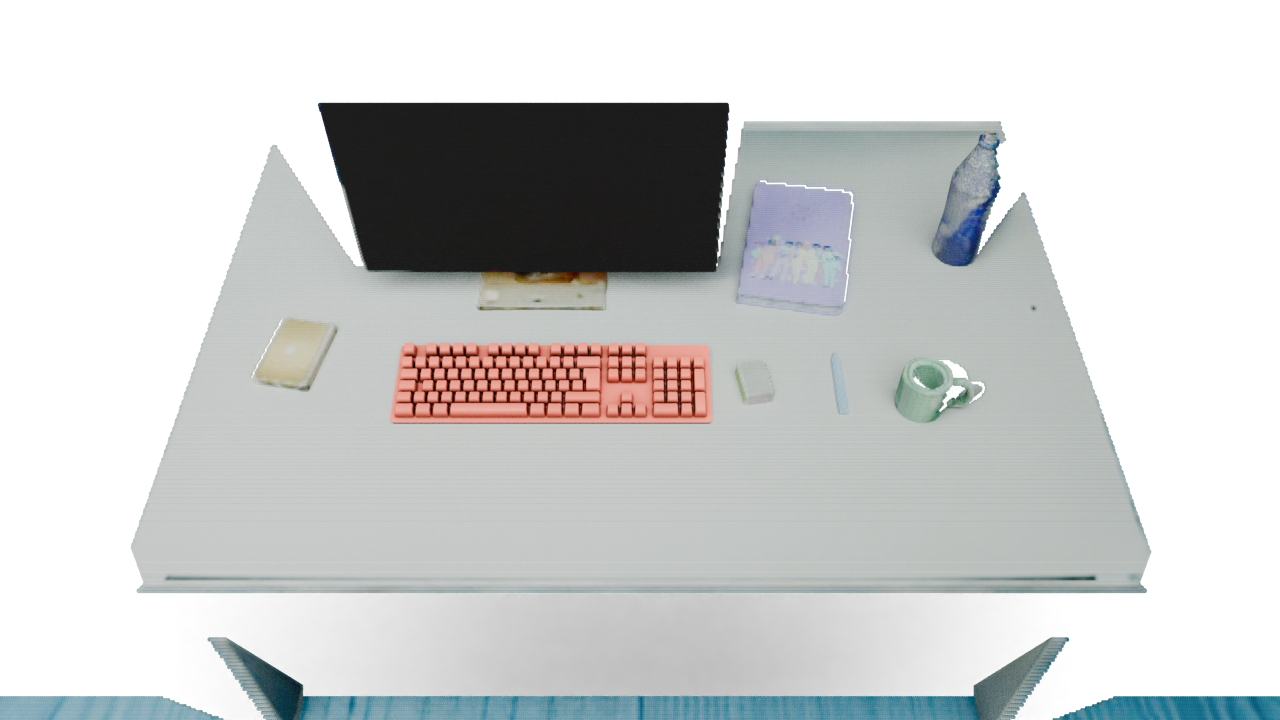
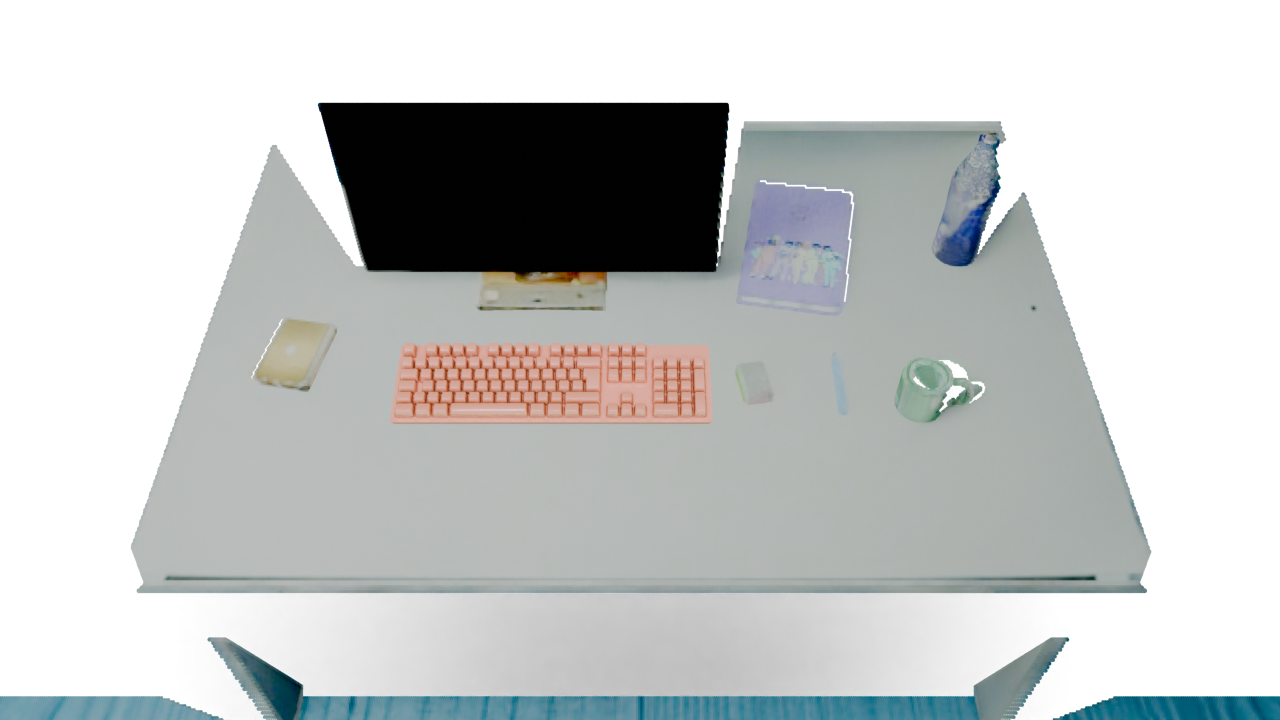
backup

diff --git a/visual_tool/vis_blender.py b/visual_tool/vis_blender.py
@@ -13,7 +13,7 @@ import argparse
 from visual_tool.bpy_utils import setMat_pointCloudColoredEmission
 
 OBJ_COLOR_BLUE = [153.0 / 255, 203.0 / 255, 67.0 / 255, 1.0]
-OBJ_COLOR_RED = [250.0 / 255, 114.0 / 255, 104.0 / 255, 1.0]
+OBJ_COLOR_RED = [250.0 / 255, 114.0 / 255, 104.0 / 255, 0.5]
 
 MESH_COLOR = bt.colorObj(OBJ_COLOR_RED, 0.5, 1.0, 1.0, 0.0, 2.0)
 POINT_COLOR = bt.colorObj([], 0.5, 1.0, 1.0, 0.0, 0.2)
@@ -47,14 +47,14 @@ def main(args):
     pts_without_obj.colors = o3d.utility.Vector3dVector(npy_file["scene_pcd_color"])
 
     # Processing the object mesh
-    obj_mesh_path = "selected_scene/mesh.obj"
+    obj_mesh_path = "selected_scene/mesh.obj" # get the mesh path
     obj_mesh = o3d.io.read_triangle_mesh(obj_mesh_path)
     obj_mesh.compute_vertex_normals()
-    obj_scale = np.array(npy_file["obj_scale"])
+    obj_scale = np.array(npy_file["obj_scale"]) # get the obj mesh scale
     obj_mesh.scale(obj_scale[0], center=[0, 0, 0])
     obj_pcd = obj_mesh.sample_points_uniformly(number_of_points=10000)
     obj_rotation = 0
-    obj_rotation_matrix = np.array(npy_file["obj_rotation_matrix"])
+    obj_rotation_matrix = np.array(npy_file["obj_rotation_matrix"]) # get the obj full rotation matrix
     obj_mesh.rotate(obj_rotation_matrix, center=[0, 0, 0])  # rotate obj mesh
     obj_mesh.translate([0, -1, 1])
     obj_pcd.rotate(obj_rotation_matrix, center=[0, 0, 0])  # rotate obj mesh
@@ -89,21 +89,26 @@ def main(args):
     bt.shadowThreshold(alphaThreshold=0.05, interpolationMode="CARDINAL")
     cam = bt.setCamera_from_UI(cam_location, cam_rotation, focalLength=focal_length)
 
+    ################################ BLENDER RENDERING ################################
     # Prepare the scene points
     scene_mesh = bt.readNumpyPoints(
         npy_file["scene_pcd_point"], (0, 0, 0), (0, 0, 0), (1, 1, 1)
     )
     scene_mesh = bt.setPointColors(scene_mesh, npy_file["scene_pcd_color"])
-    bt.setMat_pointCloudColored(scene_mesh, POINT_COLOR, SCENE_POINT_SIZE)
-    # setMat_pointCloudColoredEmission(scene_mesh, POINT_COLOR, SCENE_POINT_SIZE)
+    # bt.setMat_pointCloudColored(scene_mesh, POINT_COLOR, SCENE_POINT_SIZE)
+    setMat_pointCloudColoredEmission(scene_mesh, POINT_COLOR, SCENE_POINT_SIZE)
     scene_mesh.name = "SceneGeo"
 
     # Prepare the object mesh
     o3d.io.write_triangle_mesh("visual_tool/obj.ply", obj_mesh)  # Save the mesh ..
     mesh = bt.readMesh("visual_tool/obj.ply", (0, 0, 0), (0, 0, 0), (1, 1, 1))
     bpy.ops.object.shade_smooth()
-    bt.setMat_plastic(mesh, MESH_COLOR)
+    # bt.setMat_plastic(mesh, MESH_COLOR)
+    C1 = bt.colorObj(bt.coralRed, 0.5, 1.0, 1.0, 0.0, 0.5)
+    C2 = bt.colorObj(bt.caltechOrange, 0.5, 1.0, 1.0, 0.0, 0.0)
+    bt.setMat_carPaint(mesh, C1, C2)
     os.remove("visual_tool/obj.ply")  # .. and remove it
+    ################################ BLENDER RENDERING ################################
 
     # Tweak the ground rotation
     # bpy.data.objects["Plane"].rotation_euler[1] = np.pi / 2
